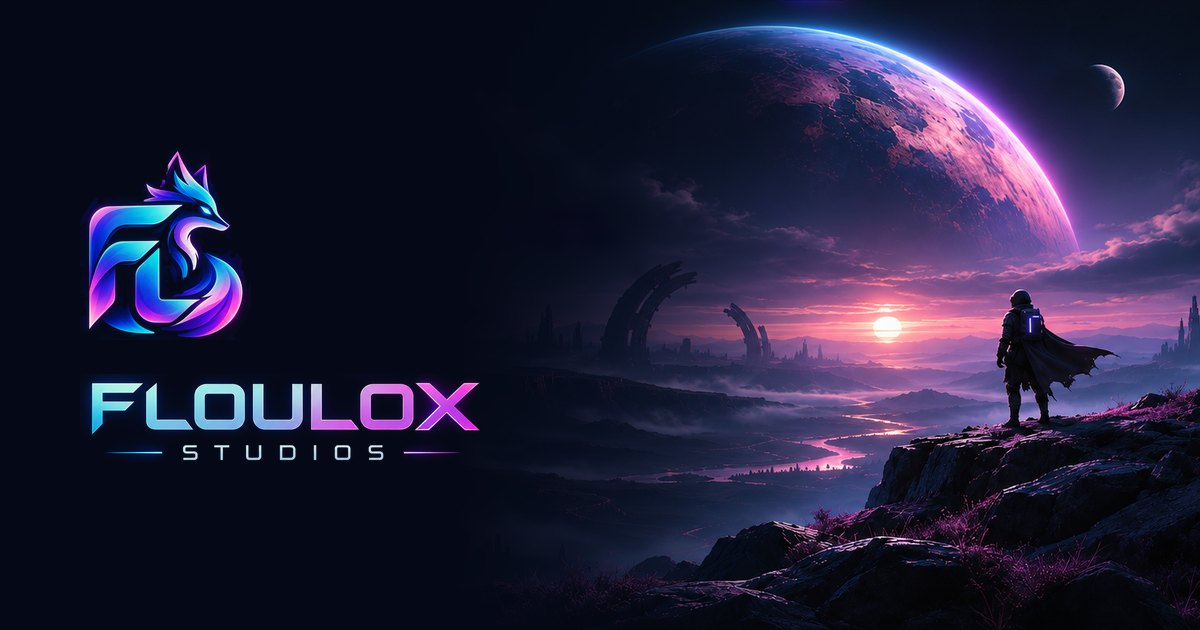
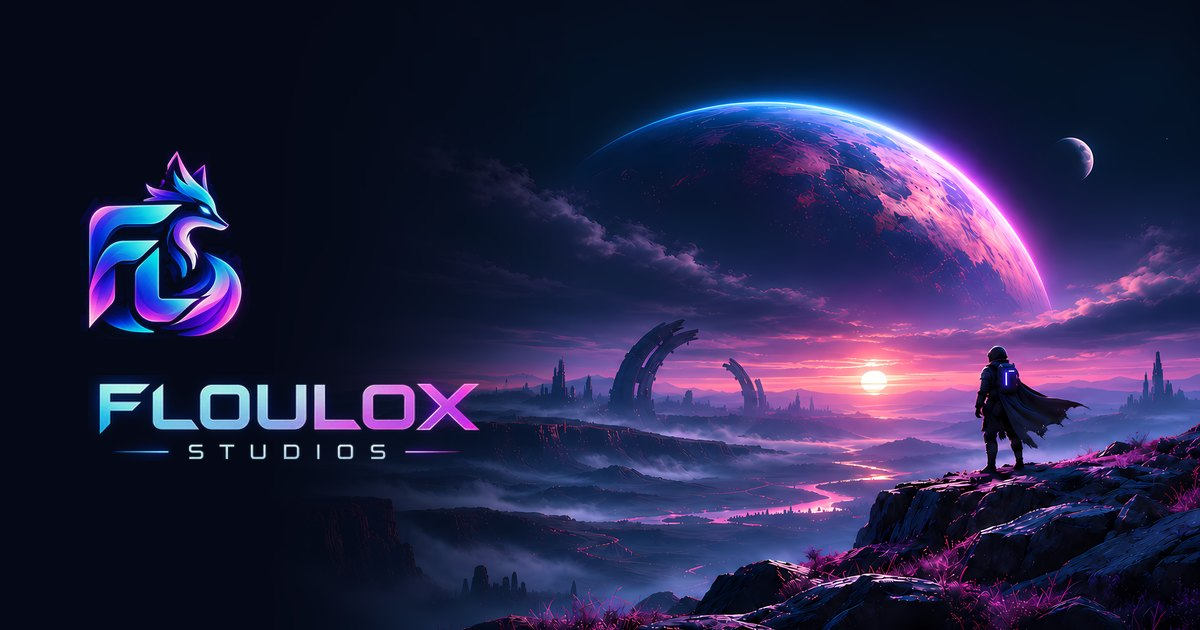
New full-width hero art, plus a matching share image
The upscaled render replaces the cropped mockup. It ships in three sizes
(1280/1920/2560) so phones and big screens each get a sharp, small file.

diff --git a/assets/css/site.css b/assets/css/site.css
@@ -184,10 +184,10 @@ button { cursor: pointer; }
 .hero { position: relative; min-height: max(640px, min(100svh, 1000px)); display: flex; align-items: center; padding: calc(var(--header-h) + 40px) 0 clamp(90px, 12vh, 150px); overflow: hidden; isolation: isolate; --p: 0; }
 .hero-scene { position: absolute; inset: 0; z-index: -1; pointer-events: none; transform: translate3d(0, calc(var(--p) * 90px), 0); }
 .hero-sky { position: absolute; inset: 0; background: radial-gradient(70% 60% at 78% 30%, rgba(80, 46, 150, 0.35), transparent 70%), radial-gradient(40% 40% at 10% 0%, rgba(52, 135, 255, 0.09), transparent 70%), var(--bg); }
-.hero-art { position: absolute; top: 0; right: 0; bottom: 0; width: max(66%, min(100%, 128svh)); -webkit-mask-image: linear-gradient(90deg, transparent 0%, #000 34%), linear-gradient(0deg, transparent 0%, #000 22%); mask-image: linear-gradient(90deg, transparent 0%, #000 34%), linear-gradient(0deg, transparent 0%, #000 22%); -webkit-mask-composite: source-in; mask-composite: intersect; }
+.hero-art { position: absolute; inset: 0; -webkit-mask-image: linear-gradient(0deg, transparent 0%, #000 22%); mask-image: linear-gradient(0deg, transparent 0%, #000 22%); }
 .hero-art .cam { position: absolute; inset: -3%; will-change: transform; }
-.hero-art img { width: 100%; height: 100%; object-fit: cover; object-position: 64% 42%; }
-.hero-light { position: absolute; left: 57%; top: 50%; width: 46%; aspect-ratio: 2 / 1; translate: -50% -50%; border-radius: 50%; background: radial-gradient(closest-side, rgba(255, 120, 200, 0.32), rgba(152, 92, 255, 0.12) 55%, transparent); mix-blend-mode: screen; }
+.hero-art img { width: 100%; height: 100%; object-fit: cover; object-position: 70% 45%; }
+.hero-light { position: absolute; left: 73.5%; top: 60%; width: 34%; aspect-ratio: 2 / 1; translate: -50% -50%; border-radius: 50%; background: radial-gradient(closest-side, rgba(255, 120, 200, 0.32), rgba(152, 92, 255, 0.12) 55%, transparent); mix-blend-mode: screen; }
 .fog { position: absolute; left: 0; width: 200%; height: 38%; bottom: 6%; background: radial-gradient(18% 50% at 10% 60%, rgba(150, 165, 230, 0.16), transparent 70%), radial-gradient(14% 40% at 32% 40%, rgba(190, 140, 255, 0.12), transparent 70%), radial-gradient(20% 55% at 60% 70%, rgba(140, 170, 255, 0.14), transparent 70%), radial-gradient(16% 45% at 84% 50%, rgba(210, 140, 255, 0.11), transparent 70%); mix-blend-mode: screen; }
 .fog.f2 { bottom: 18%; height: 30%; opacity: 0.7; transform: scaleX(-1); }
 .motes { position: absolute; inset: 0; }
@@ -205,8 +205,9 @@ button { cursor: pointer; }
 
 @media (max-width: 820px) {
   .hero { align-items: flex-end; min-height: max(620px, 100svh); padding-bottom: 72px; }
-  .hero-art { width: 100%; -webkit-mask-image: linear-gradient(0deg, transparent 0%, #000 45%); mask-image: linear-gradient(0deg, transparent 0%, #000 45%); -webkit-mask-composite: source-over; mask-composite: add; }
-  .hero-art img { object-position: 72% 30%; }
+  .hero-art { bottom: auto; height: 66%; -webkit-mask-image: linear-gradient(0deg, transparent 0%, #000 34%); mask-image: linear-gradient(0deg, transparent 0%, #000 34%); }
+  .hero-art img { object-position: 84% 50%; }
+  .hero-light { left: 46%; width: 70%; }
   .hero-shade { background: linear-gradient(0deg, rgba(5, 9, 23, 0.96) 22%, rgba(5, 9, 23, 0.45) 55%, rgba(5, 9, 23, 0.1) 80%); }
   .fog.f2, .scroll-cue { display: none; }
   .hero h1 { font-size: clamp(42px, 11.5vw, 64px); }

diff --git a/index.html b/index.html
@@ -18,7 +18,7 @@
 <meta name="twitter:card" content="summary_large_image">
 <link rel="icon" href="/assets/img/favicon.png" type="image/png">
 <link rel="apple-touch-icon" href="/assets/img/icon-180.png">
-<link rel="preload" href="/assets/img/hero.webp" as="image" type="image/webp" fetchpriority="high">
+<link rel="preload" as="image" type="image/webp" imagesrcset="/assets/img/hero-1280.webp 1280w, /assets/img/hero-1920.webp 1920w, /assets/img/hero-2560.webp 2560w" imagesizes="(max-width: 820px) 120vh, (max-aspect-ratio: 16/9) 188vh, 106vw" fetchpriority="high">
 <link rel="preload" href="/assets/fonts/newsreader-500.woff2" as="font" type="font/woff2" crossorigin>
 <link rel="stylesheet" href="/assets/css/site.css">
 <script>document.documentElement.classList.add("js");</script>
@@ -55,7 +55,7 @@
       <div class="hero-sky"></div>
       <div class="hero-art">
         <div class="cam" data-depth="-14">
-          <img src="/assets/img/hero.webp" alt="" width="1032" height="781" fetchpriority="high">
+          <img src="/assets/img/hero-1920.webp" srcset="/assets/img/hero-1280.webp 1280w, /assets/img/hero-1920.webp 1920w, /assets/img/hero-2560.webp 2560w" sizes="(max-width: 820px) 120vh, (max-aspect-ratio: 16/9) 188vh, 106vw" alt="" width="1920" height="1081" fetchpriority="high">
           <div class="hero-light"></div>
         </div>
       </div>

diff --git a/README.md b/README.md
@@ -12,7 +12,7 @@ No build step: edit the files and push to `main`.
 - `404.html`: shown by GitHub Pages for any unknown address.
 - `assets/css/site.css`: every style. Colours, gradients, type, spacing, radii and motion timings are tokens at the top.
 - `assets/js/site.js`: all shared behaviour. Each part only runs when its markup is on the page.
-- `assets/img/`: logo (`emblem.webp`, `emblem-sm.webp`, `wordmark.webp`, cut from the fox logo), favicon and app icons, the hero art (`hero.webp`), share image (`og.jpg`) and `icons.svg` (the icon sprite, used as `<use href="/assets/img/icons.svg#name">`). To swap the logo or hero art, replace those files keeping their names.
+- `assets/img/`: logo (`emblem.webp`, `emblem-sm.webp`, `wordmark.webp`, cut from the fox logo), favicon and app icons, the hero art (`hero-1280/1920/2560.webp`, three sizes of one image), share image (`og.jpg`) and `icons.svg` (the icon sprite, used as `<use href="/assets/img/icons.svg#name">`). To swap the logo or hero art, replace those files keeping their names and sizes.
 - `assets/fonts/`: self-hosted fonts (SIL Open Font License): Newsreader (headlines), Hanken Grotesk (text), Chakra Petch (labels, game pages).
 - `app-ads.txt`: AdMob's authorised seller line. It must stay at the root of the site listed as the app's website.
 
